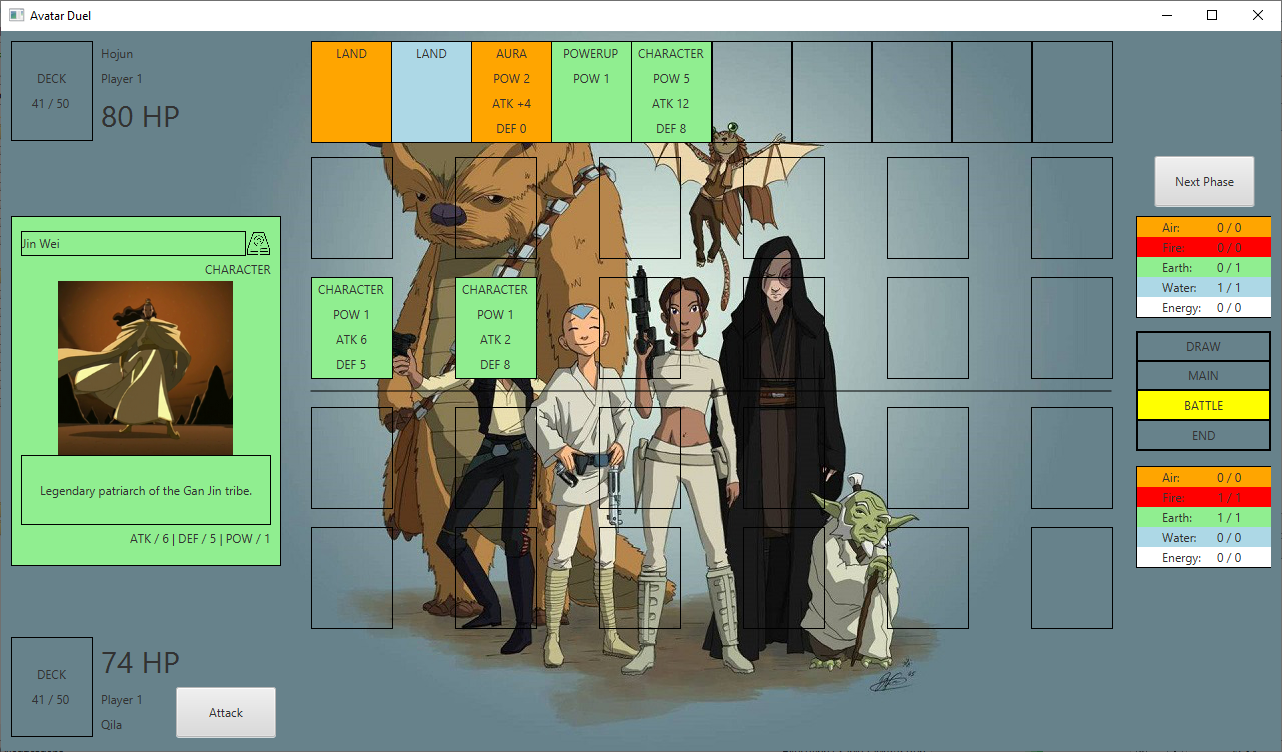
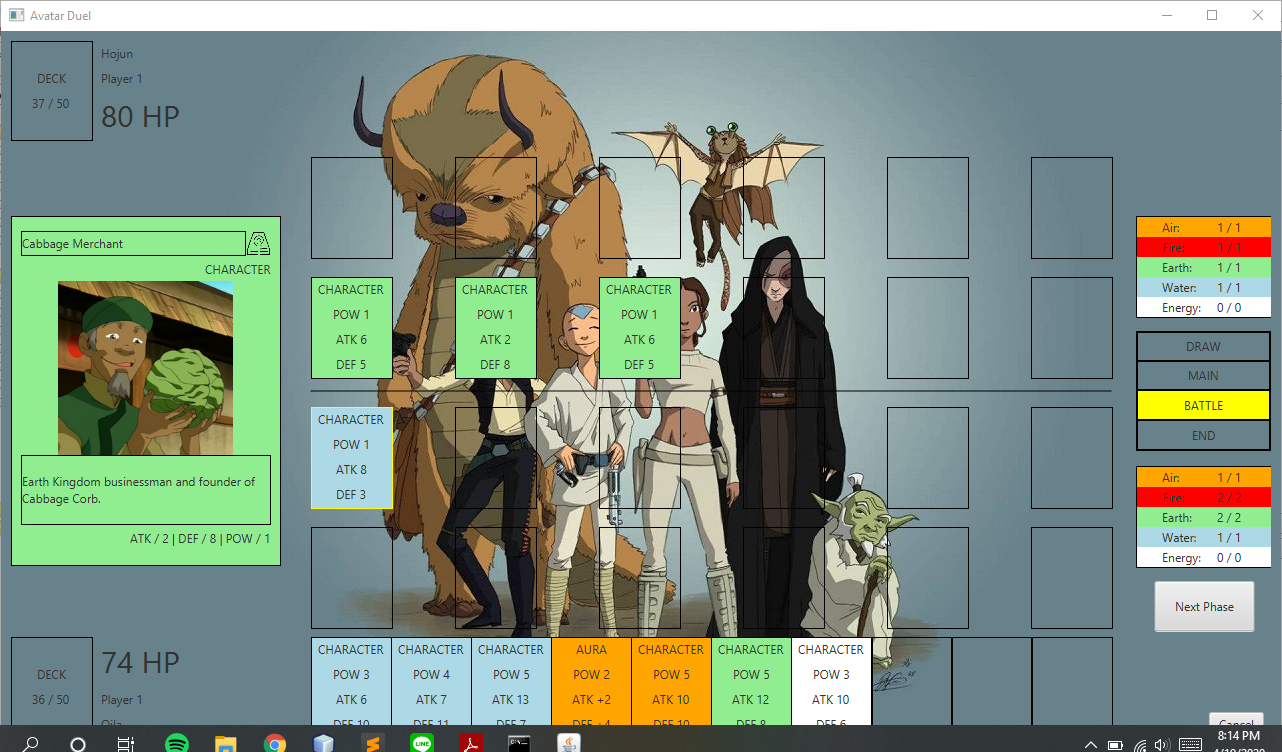
edit readme pt.2

diff --git a/README.md b/README.md
@@ -25,7 +25,7 @@ Anyway, enjoy our game!
 ## Code Structure
 Our program consists of 5 source packages. They are card, controller, player, util, and the main program itself. Below are the definition of each package.
 
-1. Card
+### Card
 Card package consists of 11 different classes. They are Aura, Card, CardBuilder, CardType, Character, Destroy, Element, Land, Position, PowerUp, and State.
 * Aura, Character, Destroy, Land, and PowerUp are one of CardType.
 * CardBuilder is used to create Card.
@@ -35,7 +35,7 @@ Card package consists of 11 different classes. They are Aura, Card, CardBuilder,
 Card plays a necessary role in this program, as the program itself is a card-based playing game.
 Card package mainly have interaction with Player and Controller, as Card is one of Player's attribute and is needed to be displayed in the GUI.
 
-2. Controller
+### Controller
 Controller package consists of 5 different classes. They are MainWindowController, Player1FieldController, Player2FieldController, PlayerFieldController, and SingleCardController.
 * MainWindowController is used to control all 4 other controllers. It acts like an "adapter" that connects each others.
 * PlayerFieldController is used to control player's behavior displayed in game. Draw card from deck, put card from hand, attack enemy, etc are parts of its job.
@@ -43,15 +43,15 @@ Controller package consists of 5 different classes. They are MainWindowControlle
 * SingleCardController is used to control big card details displayed in left side of the game
 Controller mainly have interaction with Player, Card, and Util (CSVReader).
 
-3. Player
+### Player
 Player package consists of 2 different classes. They are Player and Status.
 * Player is used to control player's behavior 'behind' the program. It controlls card movement, player's health point, and player's power status.
 * Status is used to control player's power to summon a card from hand
 
-4. Util
+### Util
 Util consists of CSVReader class. It is used to read CSV, files where all cards description are stored, to be used in the game.
 
-5. Main
+### Main
 The main itself is used to load the Main Window fxml file which is connected to the Main Window Controller to run the program.
 
 ## Application Screenshot
@@ -63,12 +63,10 @@ The main itself is used to load the Main Window fxml file which is connected to 
 ![alt text](src/main/resources/com/avatarduel/gamescenario/3.png)
 4. Player 2 attacks player 1 using shown card. Player 1's HP is now substracted by the attacking card's attack point as there is no card on the player 1's field.
 ![alt text](src/main/resources/com/avatarduel/gamescenario/4.png)
-5. Player 1 is gonna attack player 2 using Hahn with 8 attack points.
+5. Player 1 is gonna attack player 2 using Hahn (the highlighted blue card) with 8 attack points. The target is player 2's cabbage merchant with 2 attack points.
 ![alt text](src/main/resources/com/avatarduel/gamescenario/5-1.png)
-The target is player 2's cabbage merchant with 2 attack points.
-![alt text](src/main/resources/com/avatarduel/gamescenario/5-2.png)
 The recent target is now removed from the field, and player 2's HP is substracted by (8-2) = 6 points.
-![alt text](src/main/resources/com/avatarduel/gamescenario/5-3.png)
+![alt text](src/main/resources/com/avatarduel/gamescenario/5-2.png)
 
 
 **Curious to know more? Let's try it yourself and join the fun!**
